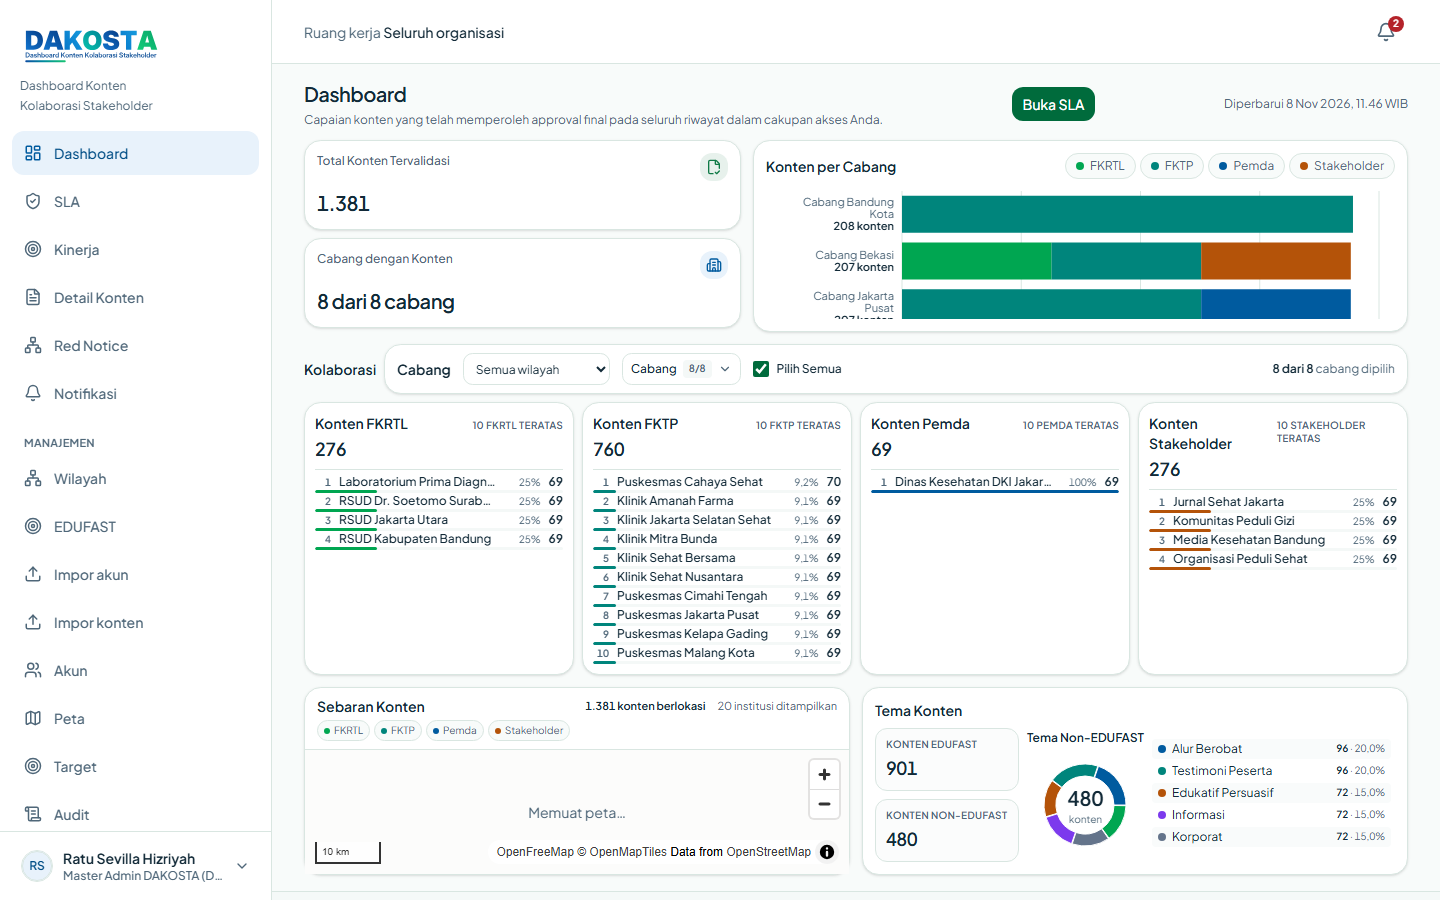
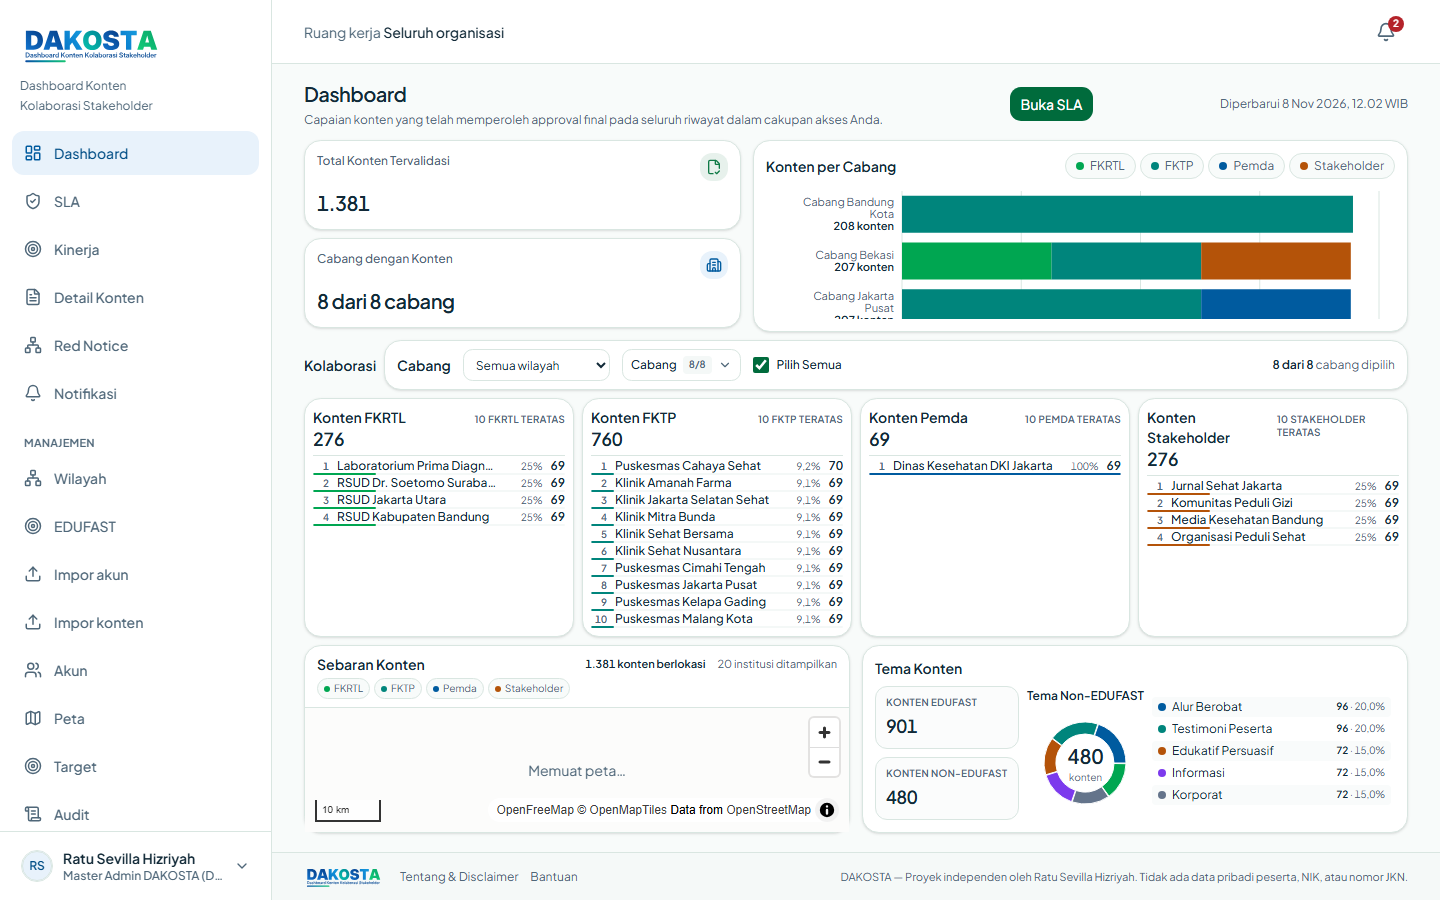
docs(release): record dashboard v3.1 production deploy and rollback target
Capture the final deployment ID, 21-check production smoke, live 4-role
1440x900 verification, refreshed gate results, and the rollback target
for the v3.1 refinement release.

diff --git a/docs/audit/16-dashboard-refinement-v31.md b/docs/audit/16-dashboard-refinement-v31.md
@@ -1,0 +1,111 @@
+# Laporan Rilis Dashboard Dakosta v3.1 (Refinement)
+
+- Tanggal rilis: 8 November 2026 (WIB)
+- Branch kerja: `fix/all-features-hardening`
+- Commit rilis: `04f8fc7` (refinement + perbaikan hash) dan `535a500` (fit satu layar untuk 10 baris peringkat)
+- Status deploy: **PRODUCTION** — `dpl_59uYtGsJUDEZUfdYdvtGZAibjFq3`, alias `https://dakosta-dakosta.vercel.app`, smoke produksi 21/21
+
+## 1. Ringkasan perubahan
+
+v3.1 mempertahankan information architecture, kontrak data approved-only, dan seluruh keputusan D1–D10 dari rilis v3 (`dpl_6hFKpQpbAcZDnFTXwGDQhJNZiCd2`). Perubahan bersifat presentasional dan navigasi:
+
+1. **Kepadatan satu layar 1440×900.** Shell (container, header halaman, skeleton, footer) dipadatkan; scorecard ringkasan, chart konten per cabang, panel peringkat, peta, dan panel tema memakai ritme `xl` yang lebih rapat sehingga dashboard Master dengan 8 cabang dan 10 baris peringkat pada keempat kategori tetap muat dalam satu layar.
+2. **Bar peringkat proporsional terhadap himpunan yang tampil.** `rankingShare()` menghitung persentase terhadap nilai maksimum baris yang ditampilkan, bukan terhadap total kategori, sehingga bar teratas selalu penuh dan baris lain terbaca proporsional. Format persentase memakai satu desimal gaya Indonesia (`formatShareId`).
+3. **Perbaikan navigasi hash (root cause Next.js 16.4.3).** Checklist cabang tidak lagi dapat menghasilkan `#anchor#anchor` saat berpindah kembali ke rute hidrasi.
+4. **Gate visual diperkuat.** Audit visual 4 peran × 3 viewport dan verifikasi live produksi 4 peran pada 1440×900 dijalankan ulang; kegagalan fit pada data produksi penuh tertangkap oleh gate live dan diperbaiki sebelum rilis final.
+
+## 2. Perbaikan hash: akar masalah dan solusi
+
+Gejala: memilih wilayah pada checklist saat berada di `/admin#tema-konten` lalu mereset pilihan menghasilkan URL `#tema-konten#tema-konten`, sehingga anchor meleset.
+
+Akar masalah di Next.js 16.4.3:
+
+1. `create-initial-router-state.js` menyemai route cache dengan `createHrefFromUrl(location)` yang **menyertakan hash hidrasi** (`discoverKnownRoute`).
+2. `app-router-state.js` (`navigateUsingPrefetchedRouteTree`) menghitung `canonicalUrl = route.canonicalUrl + url.hash`.
+3. Cache key tidak membedakan hash, sehingga navigasi ke pathname+search yang sama memakai entri ber-hash dan menambahkan hash sekali lagi pada setiap navigasi.
+
+Solusi di `src/components/dashboard/branch-checklist.tsx`:
+
+- `hydrationHref` menangkap URL hidrasi (path + search + hash) sekali di module scope sebelum navigasi klien.
+- Bila target sama dengan rute hidrasi dan hash saat ini sama dengan hash hidrasi, navigasi dilakukan tanpa hash; canonical Next memulihkan hash tepat satu kali (tidak pernah ada URL ganda yang ditulis).
+- Layout effect normalisasi tetap dipertahankan sebagai jaring pengaman untuk jalur lain (mis. hash berbeda), menulis tepat satu hash setelah navigasi commit.
+
+Regresi ditutup oleh `e2e/filters.spec.ts` (skenario wilayah → reset dengan hash awal) yang gagal pada build produksi sebelum perbaikan dan lulus 3/3 run berulang setelahnya.
+
+## 3. File utama
+
+### 3.1 Ditambahkan
+
+| File                                        | Alasan                                                              |
+| ------------------------------------------- | ------------------------------------------------------------------- |
+| `src/lib/dashboard/ranking.ts`              | `rankingShare()` + `formatShareId()`; skala bar terhadap set tampil |
+| `tests/dashboard-ranking.test.ts`           | Unit test proporsi bar, pembulatan persentase, dan batas nilai      |
+| `docs/audit/16-dashboard-refinement-v31.md` | Laporan rilis ini                                                   |
+
+### 3.2 Diubah
+
+| File                                                                                                                           | Perubahan                                                                           |
+| ------------------------------------------------------------------------------------------------------------------------------ | ----------------------------------------------------------------------------------- |
+| `src/components/dashboard/branch-checklist.tsx`                                                                                | Perbaikan hash Next (hydrationHref, navigasi tanpa hash, normalisasi layout effect) |
+| `src/components/dashboard/category-ranking.tsx`                                                                                | Bar proporsional; ritme baris/padding `xl` agar 10 baris muat satu layar            |
+| `src/components/dashboard/dashboard-overview.tsx`                                                                              | Jarak antar-section `xl` dipadatkan                                                 |
+| `src/components/dashboard/scorecards.tsx`, `stat-card.tsx`                                                                     | Scorecard dense dan tema lebih ringkas                                              |
+| `src/components/dashboard/branch-stack-chart.tsx`, `dashboard-map.tsx`, `theme-panel.tsx`                                      | Tinggi kartu dan label dipadatkan tanpa mengurangi isi                              |
+| `src/components/shell/app-shell.tsx`, `page-container.tsx`, `page-header.tsx`, `page-skeleton.tsx`                             | Padding dan tipografi shell untuk layar 900px                                       |
+| `src/components/site-footer.tsx`                                                                                               | Footer kompak                                                                       |
+| `src/app/admin/page.tsx`, `src/app/wilayah/dashboard/page.tsx`, `src/app/cabang/dashboard/page.tsx`, `src/app/client/page.tsx` | Penyesuaian header halaman dashboard                                                |
+| `e2e/dashboard.spec.ts`, `e2e/filters.spec.ts`, `e2e/a11y.spec.ts`                                                             | Assertion satu layar, urutan anchor, dan regresi hash                               |
+| `scripts/dashboard-visual-audit.mjs`                                                                                           | Audit 12 tangkapan dengan pemeriksaan fit dan overflow                              |
+| `docs/audit/evidence/dashboard-v3/*`                                                                                           | Screenshot dan `visual-audit.json` diperbarui                                       |
+
+Tidak ada perubahan skema, endpoint publik, variabel lingkungan, aturan approval, atau data produksi.
+
+## 4. Gate verifikasi
+
+| Gate                                                            | Hasil                                                                                                               |
+| --------------------------------------------------------------- | ------------------------------------------------------------------------------------------------------------------- |
+| `npx prettier --check` (file berubah)                           | Lulus                                                                                                               |
+| `npm run lint`                                                  | Exit 0, tanpa temuan                                                                                                |
+| `npm run typecheck`                                             | Exit 0                                                                                                              |
+| `npm test`                                                      | **38 file, 259 test lulus**                                                                                         |
+| `npm run test:backtest`                                         | **67/67 check lulus**; `r13-backtest-reconcile.json` (generatedAt `2026-11-08T05:03:27.573Z`)                       |
+| `npm run build:verify`                                          | Exit 0; build produksi dengan env staging                                                                           |
+| `PLAYWRIGHT_BASE_URL=http://localhost:3400 npx playwright test` | **100 passed (7.7m)** terhadap production build `.next-verify`                                                      |
+| `node scripts/dashboard-visual-audit.mjs`                       | **12/12** tangkapan; 0 overflow; 0 console/page error; `visual-audit.json` (generatedAt `2026-11-08T04:52:25.800Z`) |
+| `node scripts/smoke-production.mjs`                             | **21/21 PASS**; `E-smoke-production-2026-11-08T05-02-35-303Z.json`                                                  |
+| Verifikasi live 4 peran (1440×900)                              | 4/4 PASS; tinggi 900px, 12/12 anchor ada dan terurut, toolbar filter 1, peta siap                                   |
+
+Gate live memakai kredensial demo yang dibaca dari `.secrets` tanpa mencetak nilainya. Rate limit login demo tidak diubah dan tidak di-bypass.
+
+## 5. Verifikasi produksi
+
+Deploy final: `dpl_59uYtGsJUDEZUfdYdvtGZAibjFq3`
+
+1. Alias produksi `https://dakosta-dakosta.vercel.app` aktif; `/api/health` 200.
+2. Smoke produksi 21/21: health, header keamanan, 401/307 tanpa sesi, login 4 peran, halaman per peran, RBAC negatif (403), PDF/CSV Kinerja, rekonsiliasi Dashboard = Kinerja = CSV (41 = 41 admin, 19 = 19 wilayah), CSV konten.
+3. Verifikasi live 1440×900 pada data produksi penuh (Master 1.381 konten, 8 cabang, 19 baris peringkat; Regional 9; Branch 3; Stakeholder 1):
+   - master: height 900/900, anchor 12/12 terurut
+   - regional: height 900/900, anchor 12/12 terurut
+   - branch: height 900/900, anchor 12/12 terurut
+   - stakeholder: height 900/900, anchor 12/12 terurut
+4. Screenshot produksi: `docs/audit/evidence/dashboard-v3/production-{master,regional,branch,stakeholder}-1440.png`.
+
+Catatan iterasi: deploy antara `dpl_6ZXR6QxAoggHT31HF2Jd6KW23MNs` sempat dipromosikan, lalu gate live menemukan tinggi Master 939px pada data produksi penuh (dataset demo lokal hanya memiliki 5 baris FKTP sehingga tidak mereproduksi). Perbaikan `535a500` memadatkan ritme baris `xl` tanpa mengurangi 10 baris teratas, dan deploy final lulus gate tersebut.
+
+## 6. Rollback
+
+- Target rollback: **`dpl_6hFKpQpbAcZDnFTXwGDQhJNZiCd2`** (rilis Dashboard v3, 2026-11-08 05:30 WIB).
+- Rollback aplikasi tidak memerlukan pemulihan basis data: tidak ada migrasi skema, seed, atau perubahan data pada rilis ini.
+- Prosedur: promosikan deployment rollback melalui Vercel (`vercel promote dpl_6hFKpQpbAcZDnFTXwGDQhJNZiCd2`) lalu jalankan smoke produksi.
+
+## 7. Risiko dan catatan
+
+| Risiko                                                          | Mitigasi / status                                                                    |
+| --------------------------------------------------------------- | ------------------------------------------------------------------------------------ |
+| Dataset demo lokal tidak mereproduksi volume peringkat produksi | Gate live 1440×900 dijalankan pada produksi dengan 4 peran sebagai penentu akhir     |
+| Bar proporsional berubah bila filter cabang mengubah set tampil | `rankingShare()` memakai nilai maksimum himpunan tampil; unit test mengunci perilaku |
+| Hash ganda dapat muncul pada navigasi lain di masa depan        | Layout effect normalisasi tetap ada; E2E hash dijalankan pada suite penuh            |
+| Kepadatan `xl` menurunkan ruang baca                            | Perubahan hanya pada breakpoint `xl`; tampilan 768/375 diuji ulang tanpa overflow    |
+| Kapasitas produksi belum diuji beban (G6)                       | Tidak berubah dari status sebelumnya; dinyatakan NOT VERIFIED                        |
+
+Data produksi tetap sintetis/demo; tidak ada PII, NIK, atau nomor JKN.

diff --git a/docs/audit/13-status.md b/docs/audit/13-status.md
@@ -162,3 +162,20 @@ Enam temuan audit v2 sengaja tidak dikerjakan pada remediasi ini dan tetap terca
 - Staging WAN menyebabkan flakiness E2E; produksi berada di region yang sama dengan basis data.
 - Data uji sintetis; tidak ada PII.
 - G6 (beban 50/200/500 VU + soak) masih belum lulus; deploy dilakukan atas instruksi eksplisit pengguna.
+
+## Dashboard v3.1 (2026-11-08)
+
+Rilis refinemen dashboard di atas v3, dicatat lengkap di `16-dashboard-refinement-v31.md`.
+
+| Area                    | Status              | Angka terverifikasi                                                                                                    | Artefak / waktu                                                                                |
+| ----------------------- | ------------------- | ---------------------------------------------------------------------------------------------------------------------- | ---------------------------------------------------------------------------------------------- |
+| Gate statis + unit      | DONE (PASS)         | Prettier, lint, typecheck exit 0; 38 berkas, 259 tes                                                                   | `npm test`, 2026-11-08 11:50 WIB                                                               |
+| Backtest                | DONE (67/67 PASS)   | Rekonsiliasi dashboard = Kinerja = SQL                                                                                 | `npm run test:backtest`, generatedAt `2026-11-08T05:03:27.573Z`                                |
+| Build produksi          | DONE (PASS)         | `.next-verify` (env staging)                                                                                           | `npm run build:verify`, 2026-11-08 11:51 WIB                                                   |
+| E2E penuh               | DONE (100/100 PASS) | Termasuk regresi hash checklist dan assertion satu layar 1440×900                                                      | `PLAYWRIGHT_BASE_URL=http://localhost:3400 npx playwright test`, 7,7 mnt, 2026-11-08 12:01 WIB |
+| Audit visual            | DONE (12/12 PASS)   | 4 peran × 3 viewport; 0 overflow; 0 console/page error; 1440 tinggi 900px                                              | `dashboard-visual-audit.mjs`, generatedAt `2026-11-08T04:52:25.800Z`                           |
+| Deploy produksi v3.1    | DONE                | `dpl_59uYtGsJUDEZUfdYdvtGZAibjFq3`; alias `dakosta-dakosta.vercel.app`; rollback ke `dpl_6hFKpQpbAcZDnFTXwGDQhJNZiCd2` | `npx vercel deploy --prod --yes`, 2026-11-08 12:02 WIB                                         |
+| Smoke produksi          | DONE (21/21 PASS)   | Health, header, 401/307, login 4 peran, RBAC 403, PDF/CSV, rekonsiliasi 41 = 41 admin dan 19 = 19 wilayah              | `node scripts/smoke-production.mjs`; `E-smoke-production-2026-11-08T05-02-35-303Z.json`        |
+| Verifikasi live 4 peran | DONE (4/4 PASS)     | 1440×900 data produksi penuh: tinggi 900px, 12/12 anchor terurut, toolbar filter ada; Master 19 baris peringkat        | verifikasi Playwright, 2026-11-08 12:02 WIB; `production-*-1440.png`                           |
+
+Tidak ada migrasi skema, seed, atau perubahan variabel lingkungan pada rilis ini.
